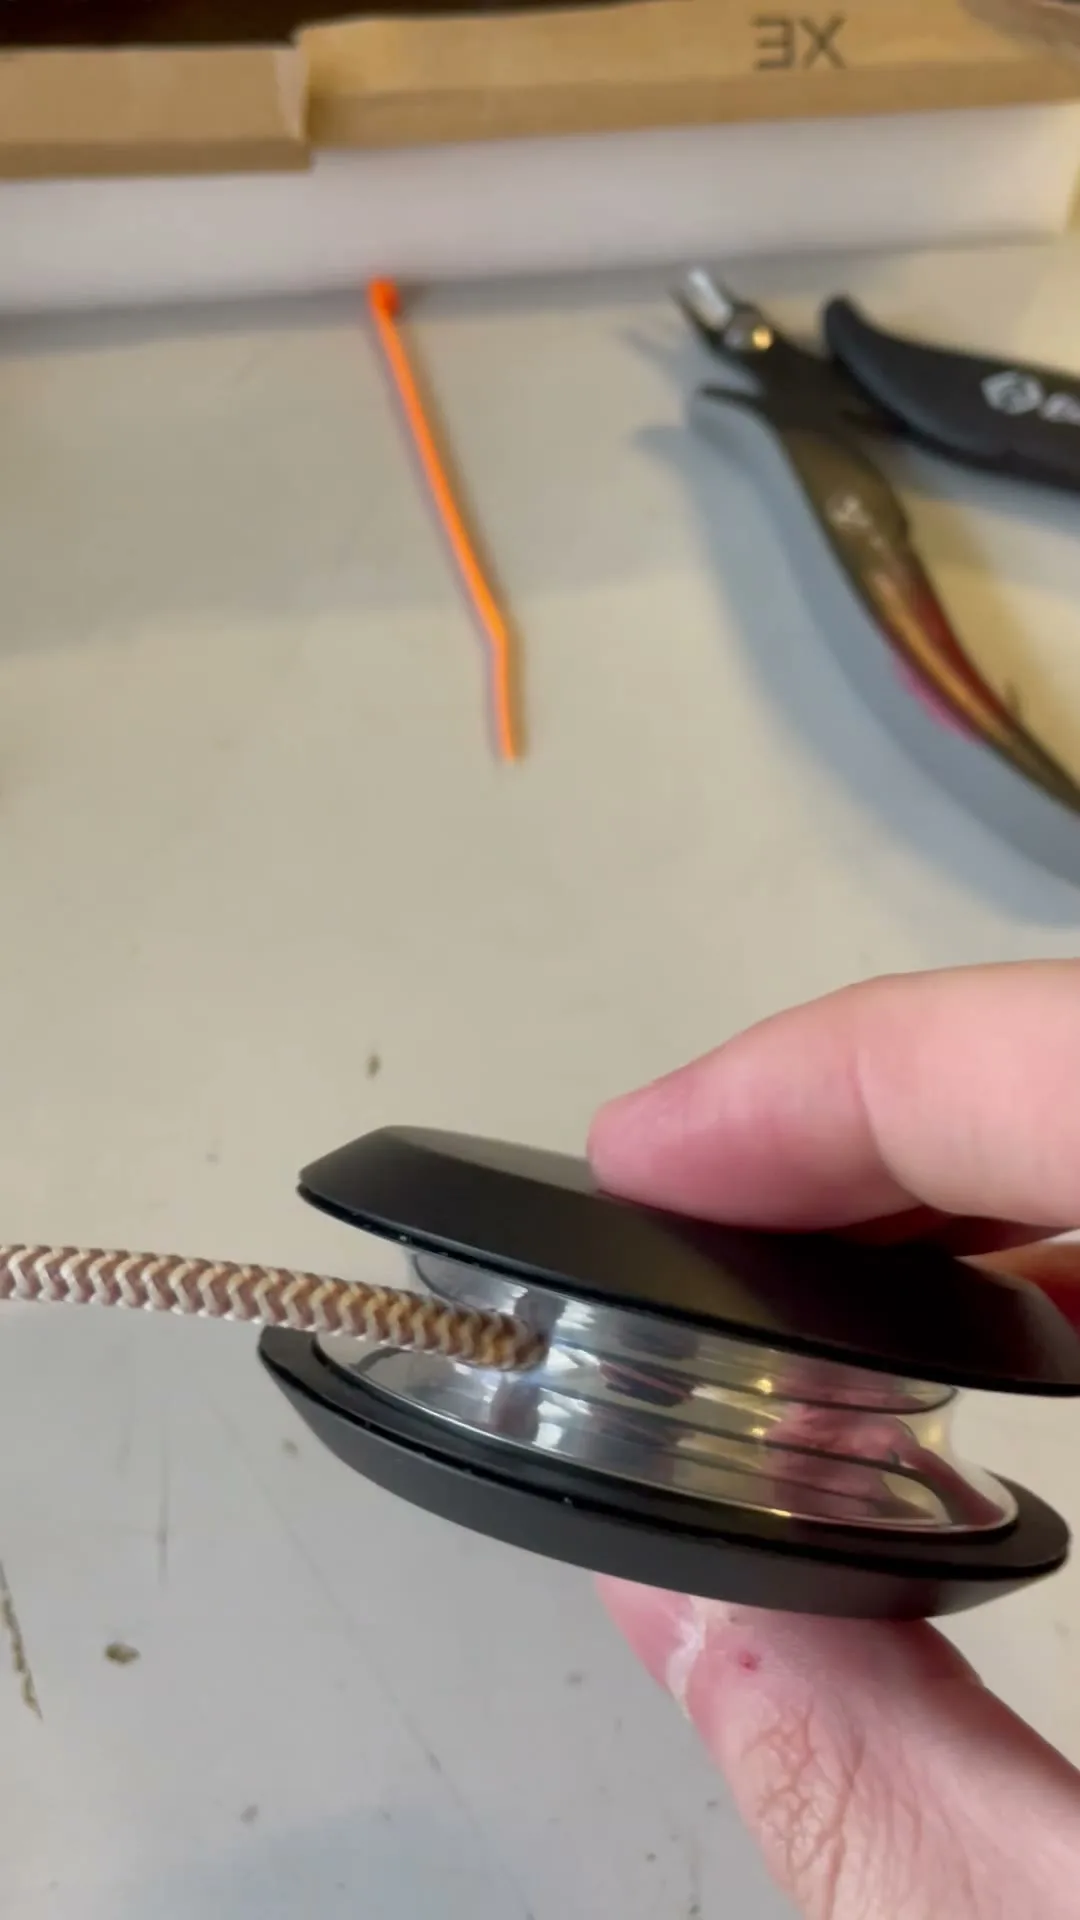
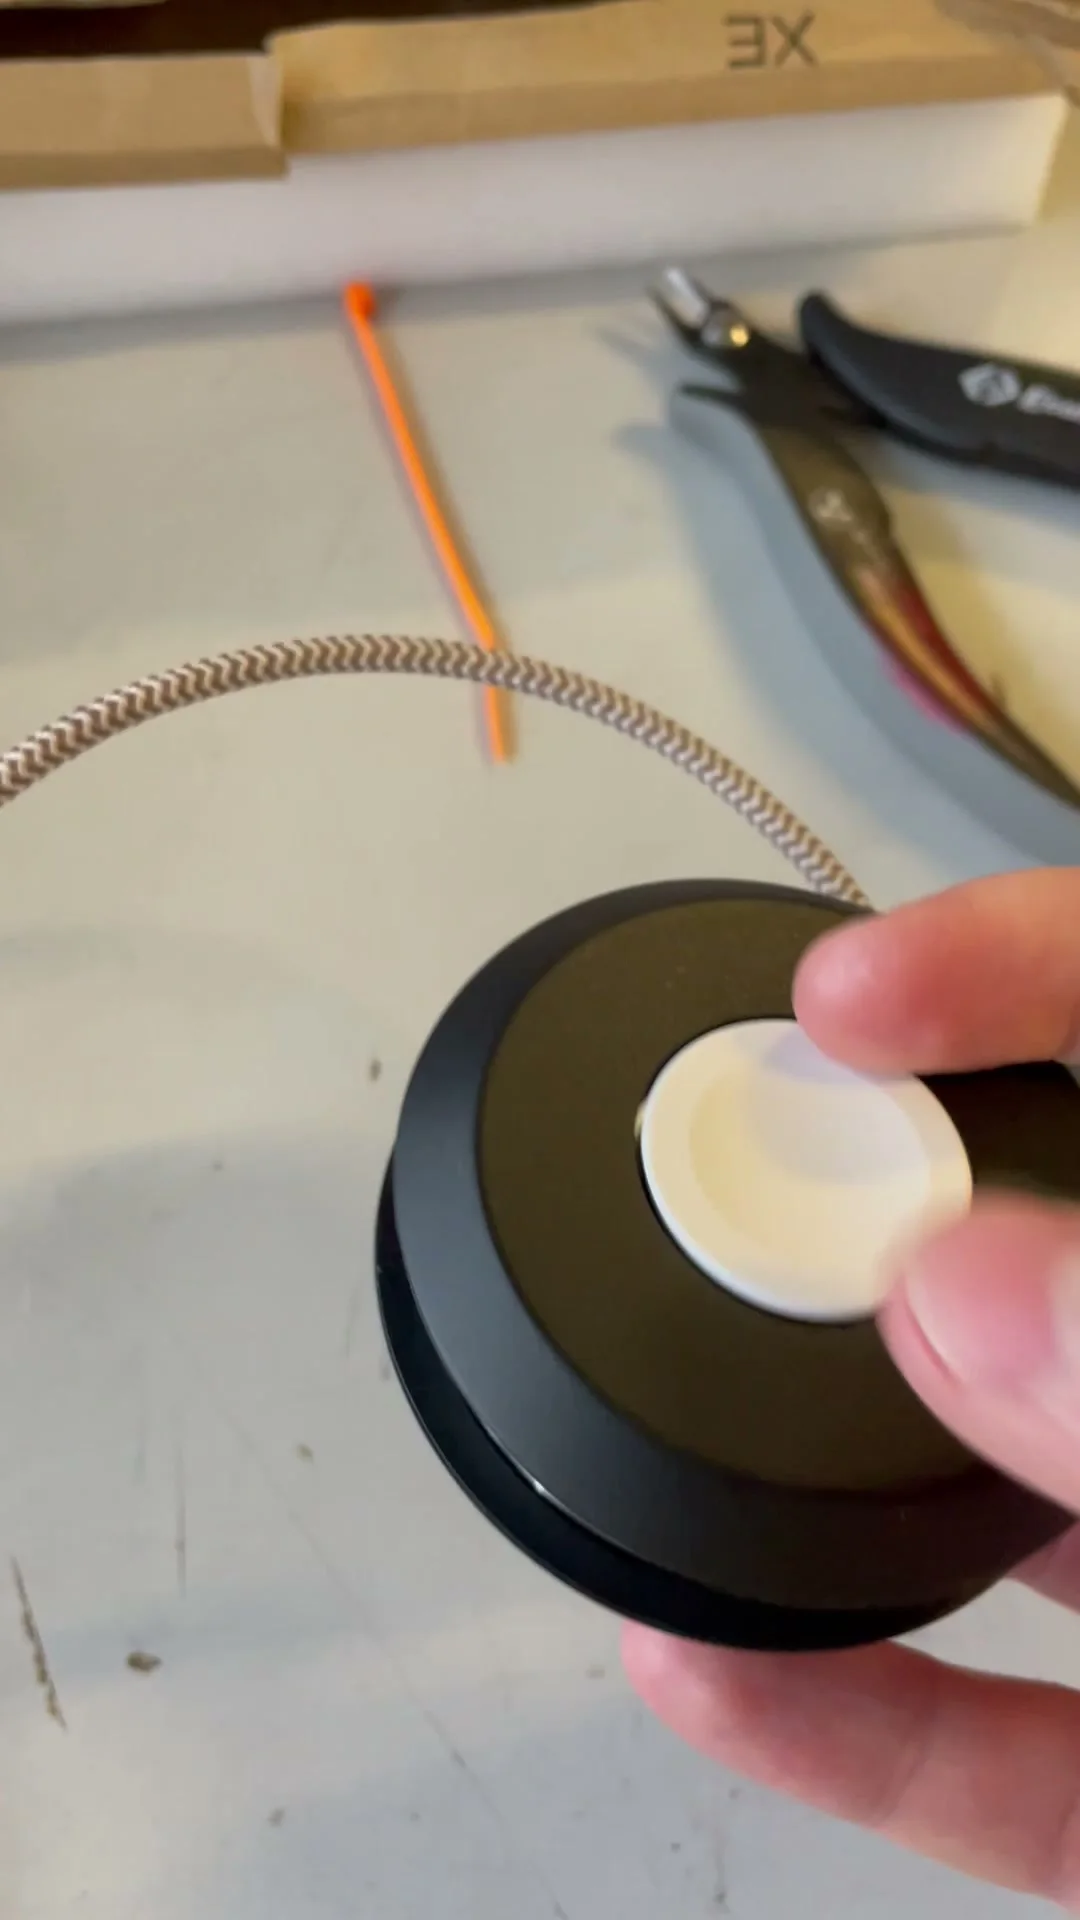
fix(hermes): sharper product stills + center MDX images (max-height)
Replaces 3 blurry video stills with sharper frames; bounds MDX image height to 70vh so portrait images render centered with margins instead of full-bleed.

diff --git a/src/mdx-components.tsx b/src/mdx-components.tsx
@@ -19,7 +19,7 @@ export const mdxComponents = {
         data-zoom-group="article"
         loading="lazy"
         decoding="async"
-        className="max-w-full h-auto cursor-zoom-in rounded-xl shadow-sm border border-border/30 mx-auto block"
+        className="max-w-full h-auto max-h-[70vh] cursor-zoom-in rounded-xl shadow-sm border border-border/30 mx-auto block"
         {...props}
       />
       {alt && (
